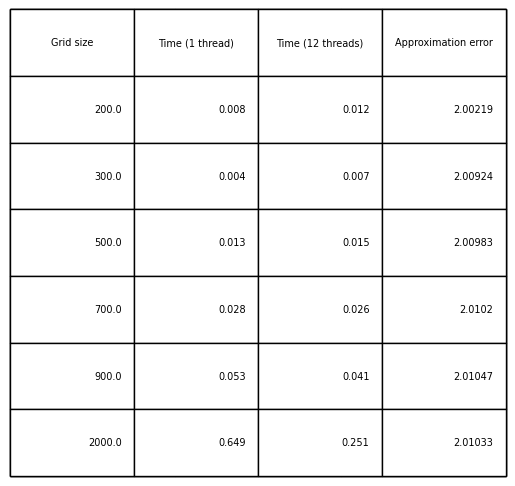
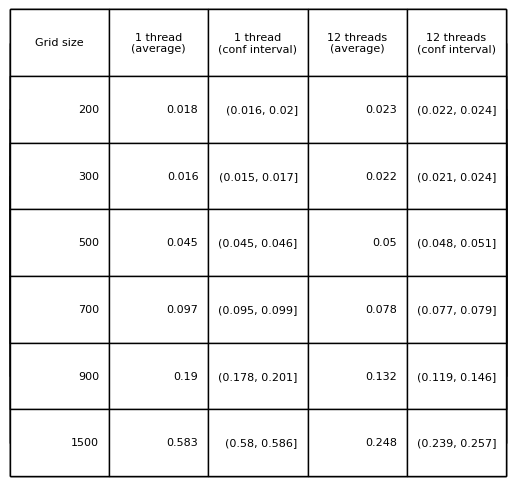
feat: add confidence interval

Changed region(s): [[0.0621, 0.0309, 0.9631, 0.9877]]

diff --git a/firstTask/experiment_res.py b/firstTask/experiment_res.py
@@ -1,57 +1,112 @@
+from scipy import stats
 import numpy as np
 import pandas as pd
 import matplotlib.pyplot as plt
 
 fig, ax = plt.subplots()
 
-#read data from result1.txt
+#read data from result1.i.txt
+
+#по 5 замеров для каждого размера сетки
+data = [[], [], [], [], []]
+
+for i in range(0, 5):
+    with open("result1.{run:d}.txt".format(run=i+1), "r") as file:
+        for line in file.readlines():
+            f_list = [float(i) for i in line.split(" ") if i.strip()]
+            data[i].append([int(f_list[0]), float(f_list[1]), float(f_list[2])])
+
 data_fe = []
-with open("result1.txt", "r") as file:
-    for line in file.readlines():
-        f_list = [float(i) for i in line.split(" ") if i.strip()]
-        data_fe.append([int(f_list[0]), float(f_list[1]), float(f_list[2])])
+#теперь проходим по грид сайзам
+for i in range(0, 6):
+    t_single = []
+    t_multi = []
+    for j in range(0, 5):
+        t_single.append(data[j][i][1])
+        t_multi.append(data[j][i][2])
+
+    average_single = np.mean(t_single)
+    average_multi = np.mean(t_multi)
+    
+    a = stats.t.interval(0.95, df=len(t_single)-1, loc=np.mean(t_single), scale=stats.sem(t_single))
+    b = stats.t.interval(0.95, df=len(t_multi)-1, loc=np.mean(t_multi), scale=stats.sem(t_multi))
+
+    data_fe.append([data[0][i][0], round(average_single, 1), pd.Interval(round(a[0], 1), round(a[1], 1)), round(average_multi, 1),
+                     pd.Interval(round(b[0], 1), round(b[1], 1))])
 
 
-df = pd.DataFrame(data_fe, columns=['Grid size', 'Time (1 thread)', 'Time (12 threads)'])
+df = pd.DataFrame(data_fe, columns=['Grid size', '1 thread\n(average)', '1 thread\n(conf interval)', '12 threads\n(average)', '12 threads\n(conf interval)'])
 
 table = ax.table(cellText=df.values, colLabels=df.columns, loc='center')
 
-table.set_fontsize(14)
+table.set_fontsize(10)
 table.scale(1,4)
 ax.axis('off')
 
 plt.savefig("results/test1.png", bbox_inches="tight")
-#plt.show()
 
-#read data from result2.txt
-for i in 2, 3, 4:
+#read date from result2.i.txt and the rest
+
+data = [[], [], [], []]
+
+for i in range(1, 4):
+    # по экспериментам
+    data[i-1] = [[], [], [], [], []]
+    for j in range(0, 5):
+        with open("result{num:d}.{run:d}.txt".format(run=j+1, num=i+1), "r") as file:
+            for line in file.readlines():
+                f_list = [float(i) for i in line.split(" ") if i.strip()]
+                data[i-1][j].append([int(f_list[0]), float(f_list[1]), float(f_list[2]), float(f_list[3])])
+
+
+for k in range(1, 4):
+    f = open("result{num:d}.txt".format(num=k+1), "w")
     data_fe = []
-    with open("result{num:d}.txt".format(num=i), "r") as file:
-        for line in file.readlines():
-            f_list = [float(i) for i in line.split(" ") if i.strip()]
-            data_fe.append([int(f_list[0]), float(f_list[1]), float(f_list[2]), float(f_list[3])])
-    df = pd.DataFrame(data_fe, columns=['Grid size', 'Time (1 thread)', 'Time (12 threads)', 'Approximation error'])
+    #теперь проходим по грид сайзам
+    for i in range(0, 6):
+        t_single = []
+        t_multi = []
+        for j in range(0, 5):
+            t_single.append(data[k-1][j][i][1])
+            t_multi.append(data[k-1][j][i][2])
 
-    table = ax.table(cellText=df.values, colLabels=df.columns, loc='center')
+        average_single = np.mean(t_single)
+        average_multi = np.mean(t_multi)
+        accuracy = 3 if k == 2 else 2
+        f.write("{x:d} {y:f} {z:f} {h:f}\n".format(x=data[k-1][0][i][0], y=round(average_single, accuracy), z=round(average_multi, accuracy), h=data[k-1][0][i][3]))
+        
+        a = stats.t.interval(0.95, df=len(t_single)-1, loc=np.mean(t_single), scale=stats.sem(t_single))
+        b = stats.t.interval(0.95, df=len(t_multi)-1, loc=np.mean(t_multi), scale=stats.sem(t_multi))
 
-    table.set_fontsize(14)
-    table.scale(1,4)
-    ax.axis('off')
-    plt.savefig("results/test{num:d}.png".format(num=i), bbox_inches="tight")
+        data_fe.append([data[k-1][0][i][0], round(average_single, accuracy), pd.Interval(round(a[0], accuracy), round(a[1], accuracy)), round(average_multi, accuracy),
+                        pd.Interval(round(b[0], accuracy), round(b[1], accuracy))])
+        
+        df = pd.DataFrame(data_fe, columns=['Grid size', '1 thread\n(average)', '1 thread\n(conf interval)', '12 threads\n(average)', '12 threads\n(conf interval)'])
+
+        table = ax.table(cellText=df.values, colLabels=df.columns, loc='center')
+
+        table.set_fontsize(10)
+        table.scale(1,4)
+        ax.axis('off')
+
+        plt.savefig("results/test{num:d}.png".format(num=k+1), bbox_inches="tight")
+    f.close()
 
 plt.show()
+
 #evaluate the effectiveness of the parallel version for various functions
 
 data = [[], [], []]
-for i in 2, 3, 4:
+for i in range(2, 5):
     with open("result{num:d}.txt".format(num=i), "r") as file:
         for line in file.readlines():
+            print(i)
             f_list = [float(i) for i in line.split(" ") if i.strip()]
             # add grid size and efficiency increase coeff
-            coeff = float(f_list[1]) / float(f_list[2])
+            coeff = round(float(f_list[1]) / float(f_list[2]), 3)
             data[i-2].append([int(f_list[0]), coeff])
 
-plt.axis([0, 2000, 0, 5])
+plt.axis([0, 1500, 0, 5])
 plt.title('Эффективность параллельной версии', fontsize=20, fontname='Times New Roman')
 plt.xlabel('Размер сетки', color='gray')
 plt.ylabel('Отношение скорости вычислений', color='gray')
@@ -67,6 +122,7 @@ plt.legend()
 plt.savefig("results/compare_efficiency.png")
 
 plt.show()
+
 #evaluate the approximation error coefficient for various function (with various grids)
 
 data = [[], [], []]
@@ -77,7 +133,7 @@ for i in 2, 3, 4:
             # add grid size and efficiency increase coeff
             data[i-2].append([int(f_list[0]), float(f_list[3])])
 
-plt.axis([0, 2000, 0, 2.5])
+plt.axis([0, 1500, 0, 5.5])
 plt.title('Точность вычислений', fontsize=20, fontname='Times New Roman')
 plt.xlabel('Размер сетки', color='gray')
 plt.ylabel('Средняя относительная ошибка', color='gray')

diff --git a/firstTask/src/main.c b/firstTask/src/main.c
@@ -31,8 +31,8 @@ double stc_u(double x, double y) { return 500 * pow(x, 4) + 1500 * pow(y, 3); }
 double ttc_f(double x, double y) { return -sin(x) / 10 - cos(y) / 10; }
 double ttc_u(double x, double y) { return sin(10 * x) / 10 + cos(10 * y) / 10; }
 
-double thtc_f(double x, double y) { return 10 / pow(2*x+y+1/100, 3); }
-double thtc_u(double x, double y) { return 1 / (pow(x, 2) + pow(y, 2) + 0.005); }
+double fotc_f(double x, double y) { return 10 / pow(2*x+y+1/100, 3); }
+double fotc_u(double x, double y) { return 1 / (pow(x, 2) + pow(y, 2) + 0.005); }
 
 // TESTS
 
@@ -107,43 +107,58 @@ int main()
         return -1;
     }
 
-    FILE *fptr = fopen("../result1.txt", "w");
-    size_t sz[6] = {200, 300, 500, 700, 900, 2000};
+    for (int j = 0; j < 10; ++j) {
+        char buffer1[20];
+        sprintf(buffer1, "../result1.%d.txt", j+1);
+        FILE *fptr = fopen(buffer1, "w");
+        size_t sz[6] = {200, 300, 500, 700, 900, 1500};
 
-    for (int i = 0; i < 6; ++i) {
-        fprintf(fptr, "%d ", sz[i]);
-        first_test(sz[i], 1, fptr);
-        first_test(sz[i], THREADS_AMOUNT, fptr);
-        fprintf(fptr, "\n");
-    }
-    fclose(fptr);
+        for (int i = 0; i < 6; ++i) {
+            fprintf(fptr, "%d ", sz[i]);
+            first_test(sz[i], 1, fptr);
+            first_test(sz[i], THREADS_AMOUNT, fptr);
+            fprintf(fptr, "\n");
+        }
+        fclose(fptr);
 
-    fptr = fopen("../result2.txt", "w");
-    for (int i = 0; i < 6; ++i) {
-        fprintf(fptr, "%d ", sz[i]);
-        run_test(sz[i], 1, fptr, stc_f, stc_u);
-        run_test(sz[i], THREADS_AMOUNT, fptr, stc_f, stc_u);
-        fprintf(fptr, "\n");
-    }
-    fclose(fptr);
+        char buffer2[20];
+        sprintf(buffer2, "../result2.%d.txt", j+1);
+        fptr = fopen(buffer2, "w");
+        int limit;
+        if (j < 5)
+            limit = 6; 
+        else 
+            limit = 5;
+        for (int i = 0; i < limit; ++i) {
+            fprintf(fptr, "%d ", sz[i]);
+            run_test(sz[i], 1, fptr, stc_f, stc_u);
+            run_test(sz[i], THREADS_AMOUNT, fptr, stc_f, stc_u);
+            fprintf(fptr, "\n");
+        }
+        fclose(fptr);
 
-    fptr = fopen("../result3.txt", "w");
-    for (int i = 0; i < 6; ++i) {
-        fprintf(fptr, "%d ", sz[i]);
-        run_test(sz[i], 1, fptr, ttc_f, ttc_u);
-        run_test(sz[i], THREADS_AMOUNT, fptr, ttc_f, ttc_u);
-        fprintf(fptr, "\n");
-    }
-    fclose(fptr);
+        char buffer3[20];
+        sprintf(buffer3, "../result3.%d.txt", j+1);
+        fptr = fopen(buffer3, "w");
+        for (int i = 0; i < 6; ++i) {
+            fprintf(fptr, "%d ", sz[i]);
+            run_test(sz[i], 1, fptr, ttc_f, ttc_u);
+            run_test(sz[i], THREADS_AMOUNT, fptr, ttc_f, ttc_u);
+            fprintf(fptr, "\n");
+        }
+        fclose(fptr);
 
-    fptr = fopen("../result4.txt", "w");
-    for (int i = 0; i < 6; ++i) {
-        fprintf(fptr, "%d ", sz[i]);
-        run_test(sz[i], 1, fptr, ttc_f, ttc_u);
-        run_test(sz[i], THREADS_AMOUNT, fptr, ttc_f, ttc_u);
-        fprintf(fptr, "\n");
+        char buffer4[20];
+        sprintf(buffer4, "../result4.%d.txt", j+1);
+        fptr = fopen(buffer4, "w");
+        for (int i = 0; i < 6; ++i) {
+            fprintf(fptr, "%d ", sz[i]);
+            run_test(sz[i], 1, fptr, fotc_f, fotc_u);
+            run_test(sz[i], THREADS_AMOUNT, fptr, fotc_f, fotc_u);
+            fprintf(fptr, "\n");
+        }
+        fclose(fptr);
     }
-    fclose(fptr);
 
     return 0;
 }

diff --git a/firstTask/README.md b/firstTask/README.md
@@ -28,6 +28,7 @@
   - Функция 4 : $\frac{1}{x^2 + y^2 + 0.005}$
 
 
+
 ### Оценка эффективности
 
 ![CompareEfficiency](results/compare_efficiency.png)
